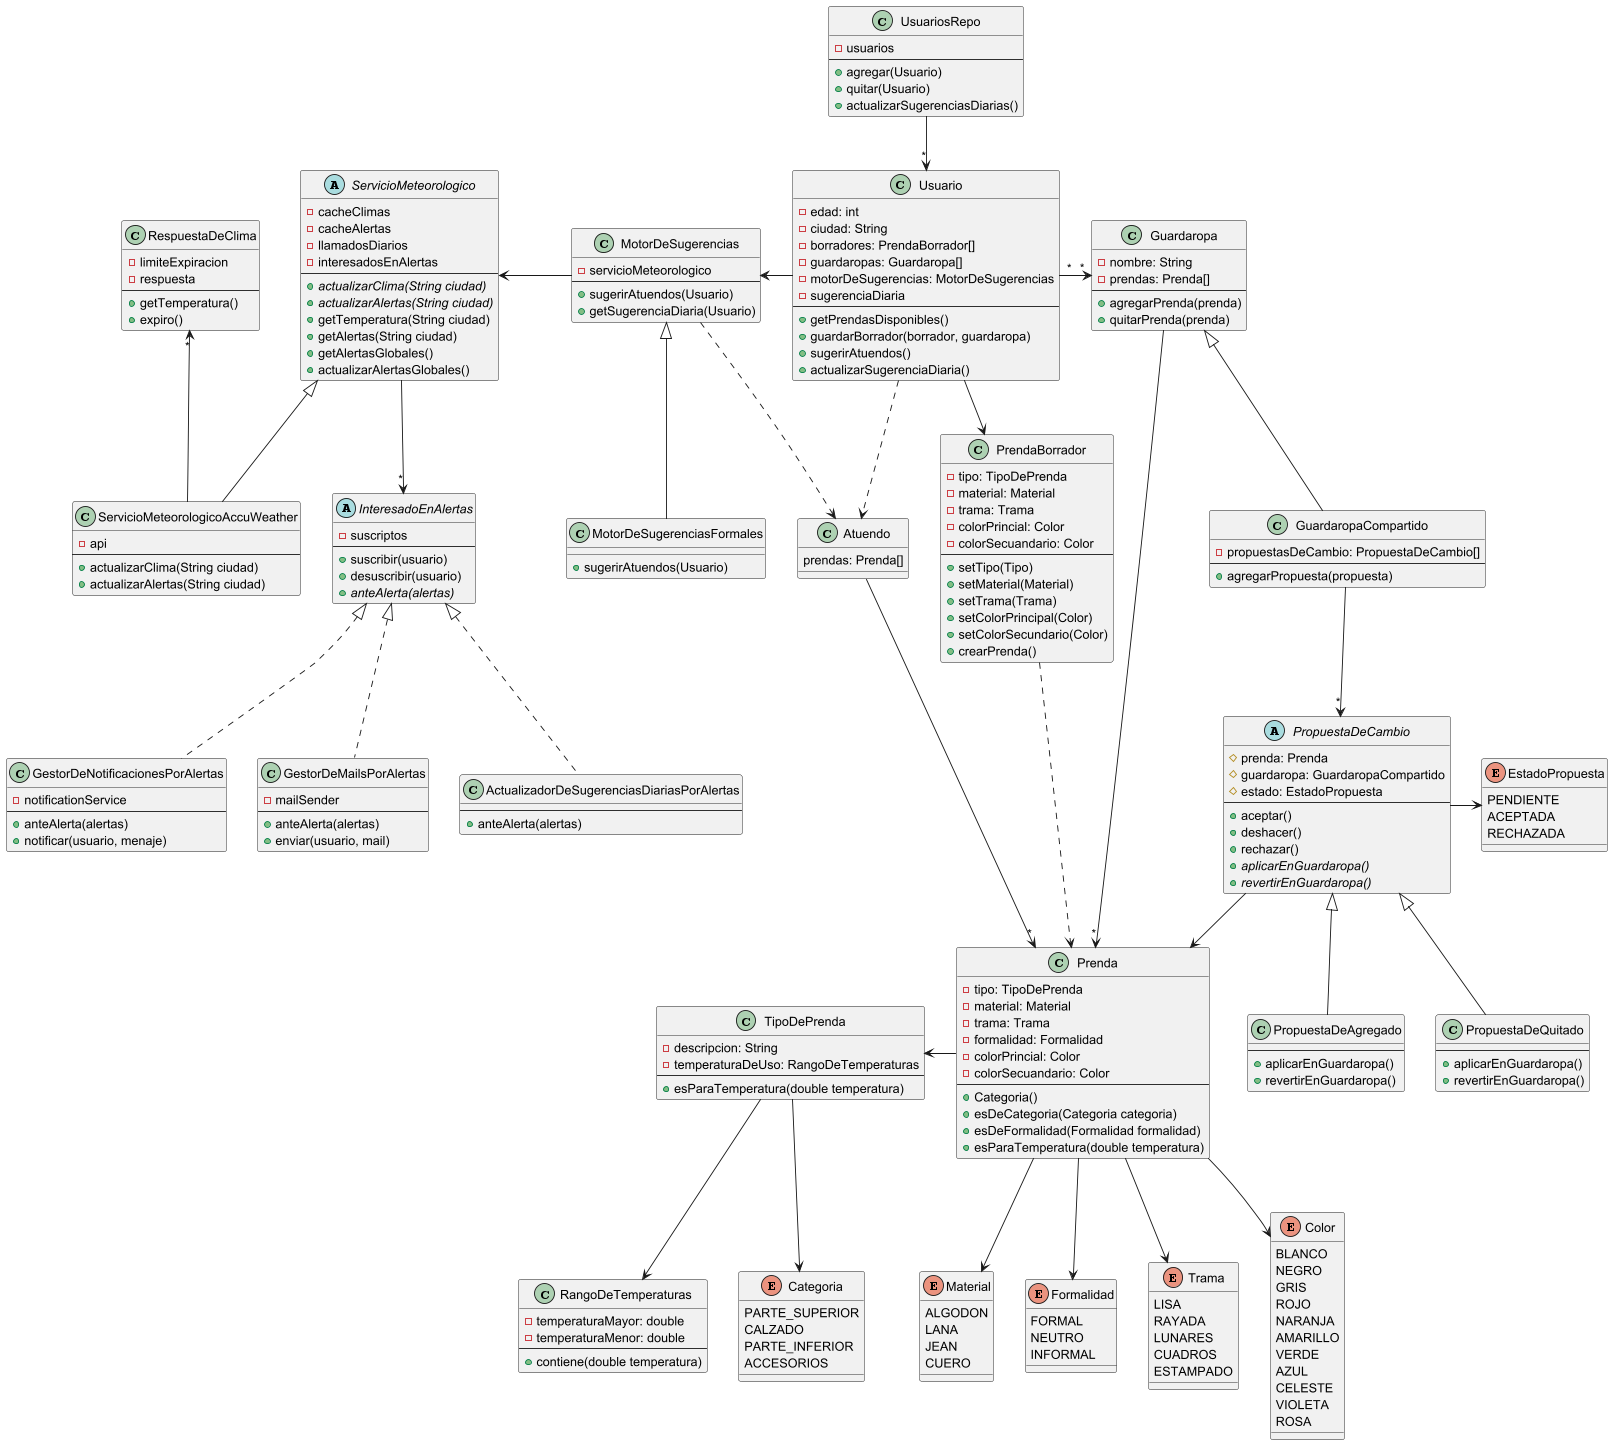
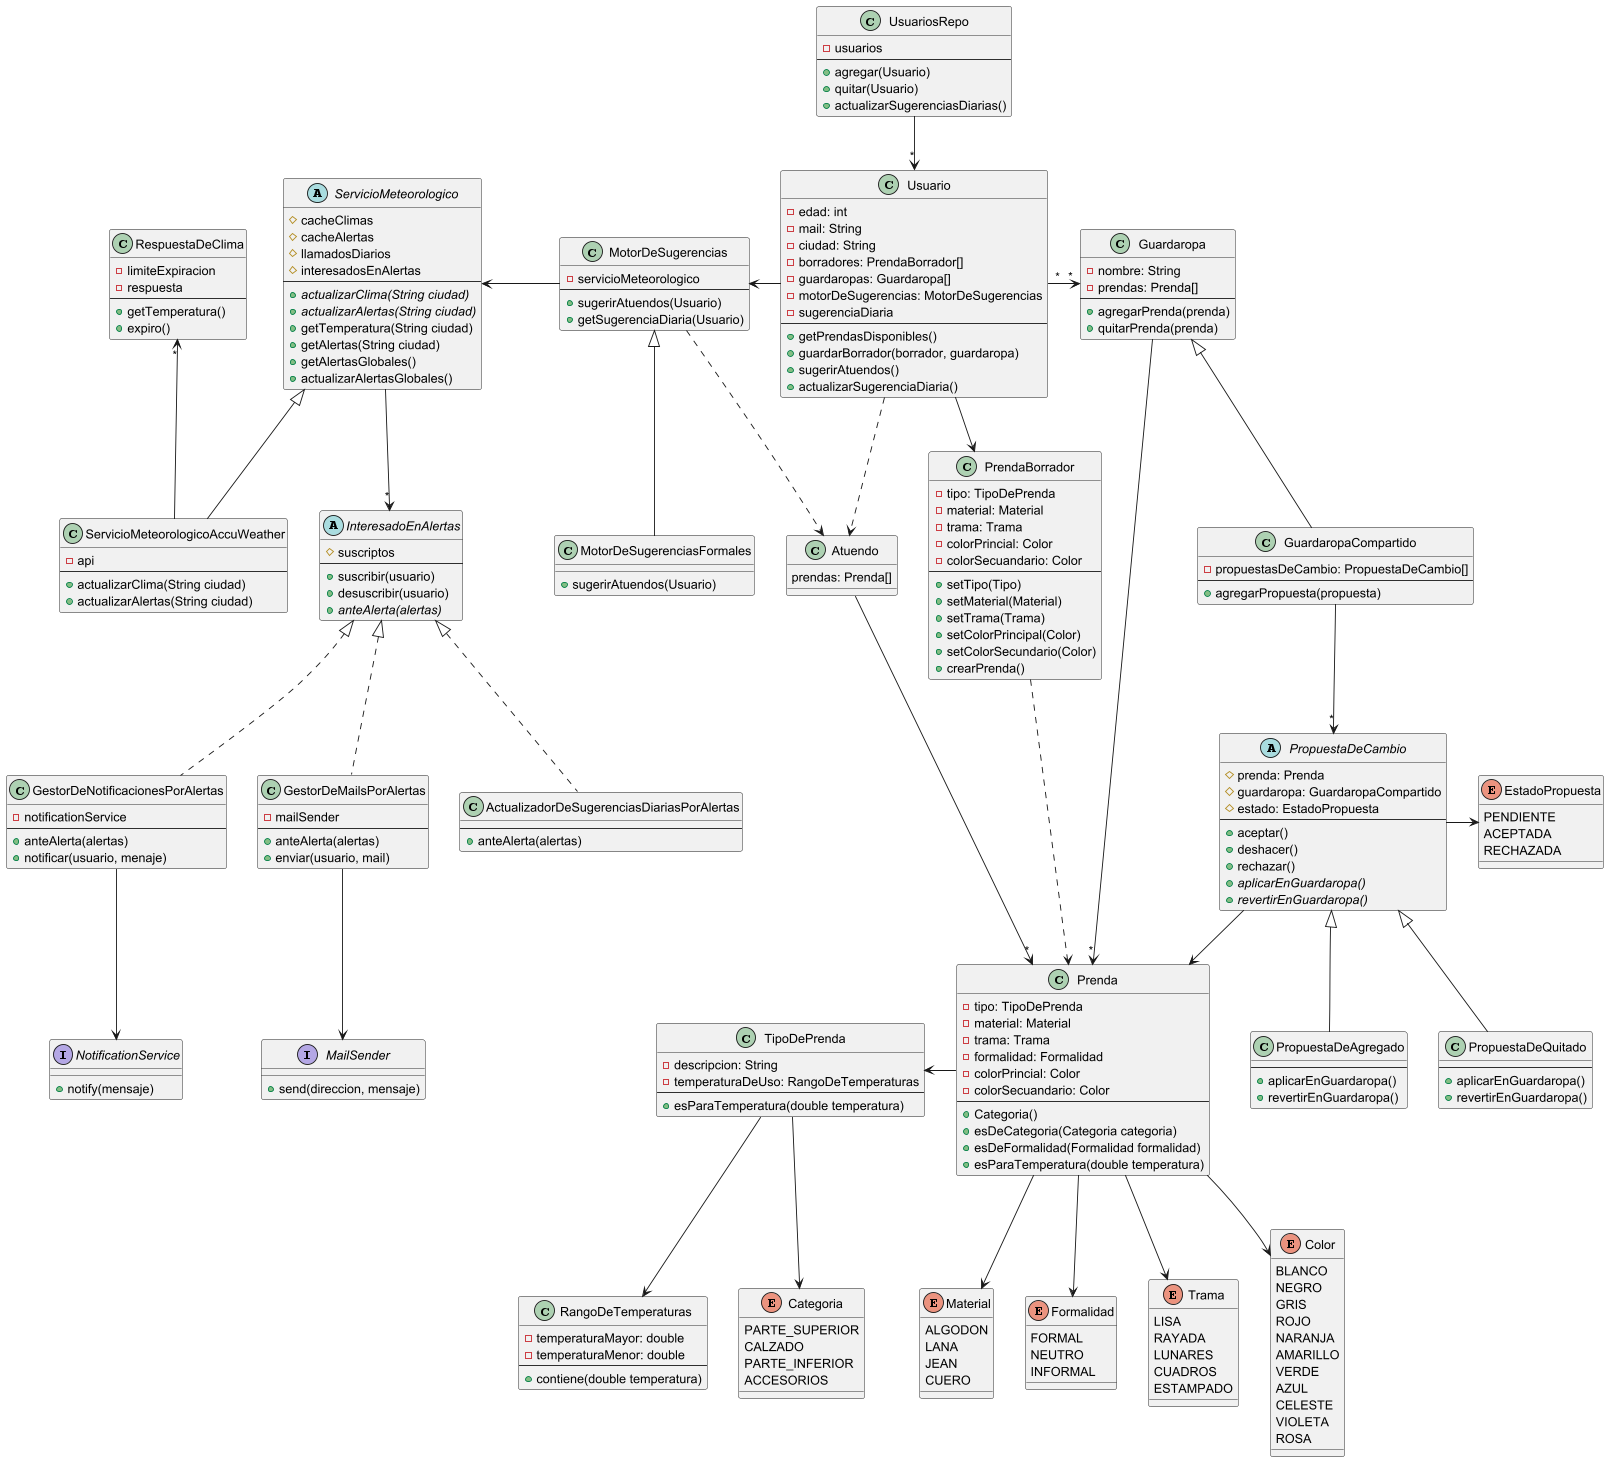
correcciones 6ta iteracion

diff --git a/src/main/java/org/example/servicioMeteorologico/ServicioMeteorologico.java b/src/main/java/org/example/servicioMeteorologico/ServicioMeteorologico.java
@@ -1,24 +1,35 @@
 package org.example.servicioMeteorologico;
 
+import java.util.ArrayList;
 import java.util.HashMap;
+import java.util.List;
 
 public abstract class ServicioMeteorologico {
   protected final HashMap<String, RespuestaDeClima> cacheClimas;
-  protected final HashMap<String, Object> cacheAlertas;
+  protected final HashMap<String, List<String>> cacheAlertas;
   protected final int llamadosDiarios;
+  protected List<InteresadoEnAlertas> interesadoEnAlertas;
 
   public ServicioMeteorologico(int llamadosDiarios) {
-    this.cacheClimas =  new HashMap<>();
+    this.cacheClimas = new HashMap<>();
     this.cacheAlertas = new HashMap<>();
     this.llamadosDiarios = llamadosDiarios;
+    this.interesadoEnAlertas = new ArrayList<>();
   }
 
   abstract protected void actualizarClima(String ciudad);
 
   abstract protected void actualizarAlertas(String ciudad);
 
+  public void agregarInteresado(InteresadoEnAlertas interesadoEnAlertas) {
+    this.interesadoEnAlertas.add(interesadoEnAlertas);
+  }
 
-    public double getTemperatura(String ciudad) {
+  public void quitarInteresado(InteresadoEnAlertas interesadoEnAlertas) {
+    this.interesadoEnAlertas.remove(interesadoEnAlertas);
+  }
+
+  public double getTemperatura(String ciudad) {
     if (!cacheClimas.containsKey(ciudad) || cacheClimas.get(ciudad).expiro()) {
       this.actualizarClima(ciudad);
     }
@@ -32,12 +43,15 @@ public abstract class ServicioMeteorologico {
     return cacheAlertas.get(ciudad);
   }
 
-  public HashMap<String, Object> getAlertasGlobales() {
+  public HashMap<String, List<String>> getAlertasGlobales() {
     return this.cacheAlertas;
   }
 
   public void actualizarAlertasGlobales() {
     this.cacheAlertas.keySet().forEach(this::actualizarAlertas);
+    this.interesadoEnAlertas.forEach((interesadoEnAlertas) -> {
+      interesadoEnAlertas.anteAlerta(cacheAlertas);
+    });
   }
 
 }
